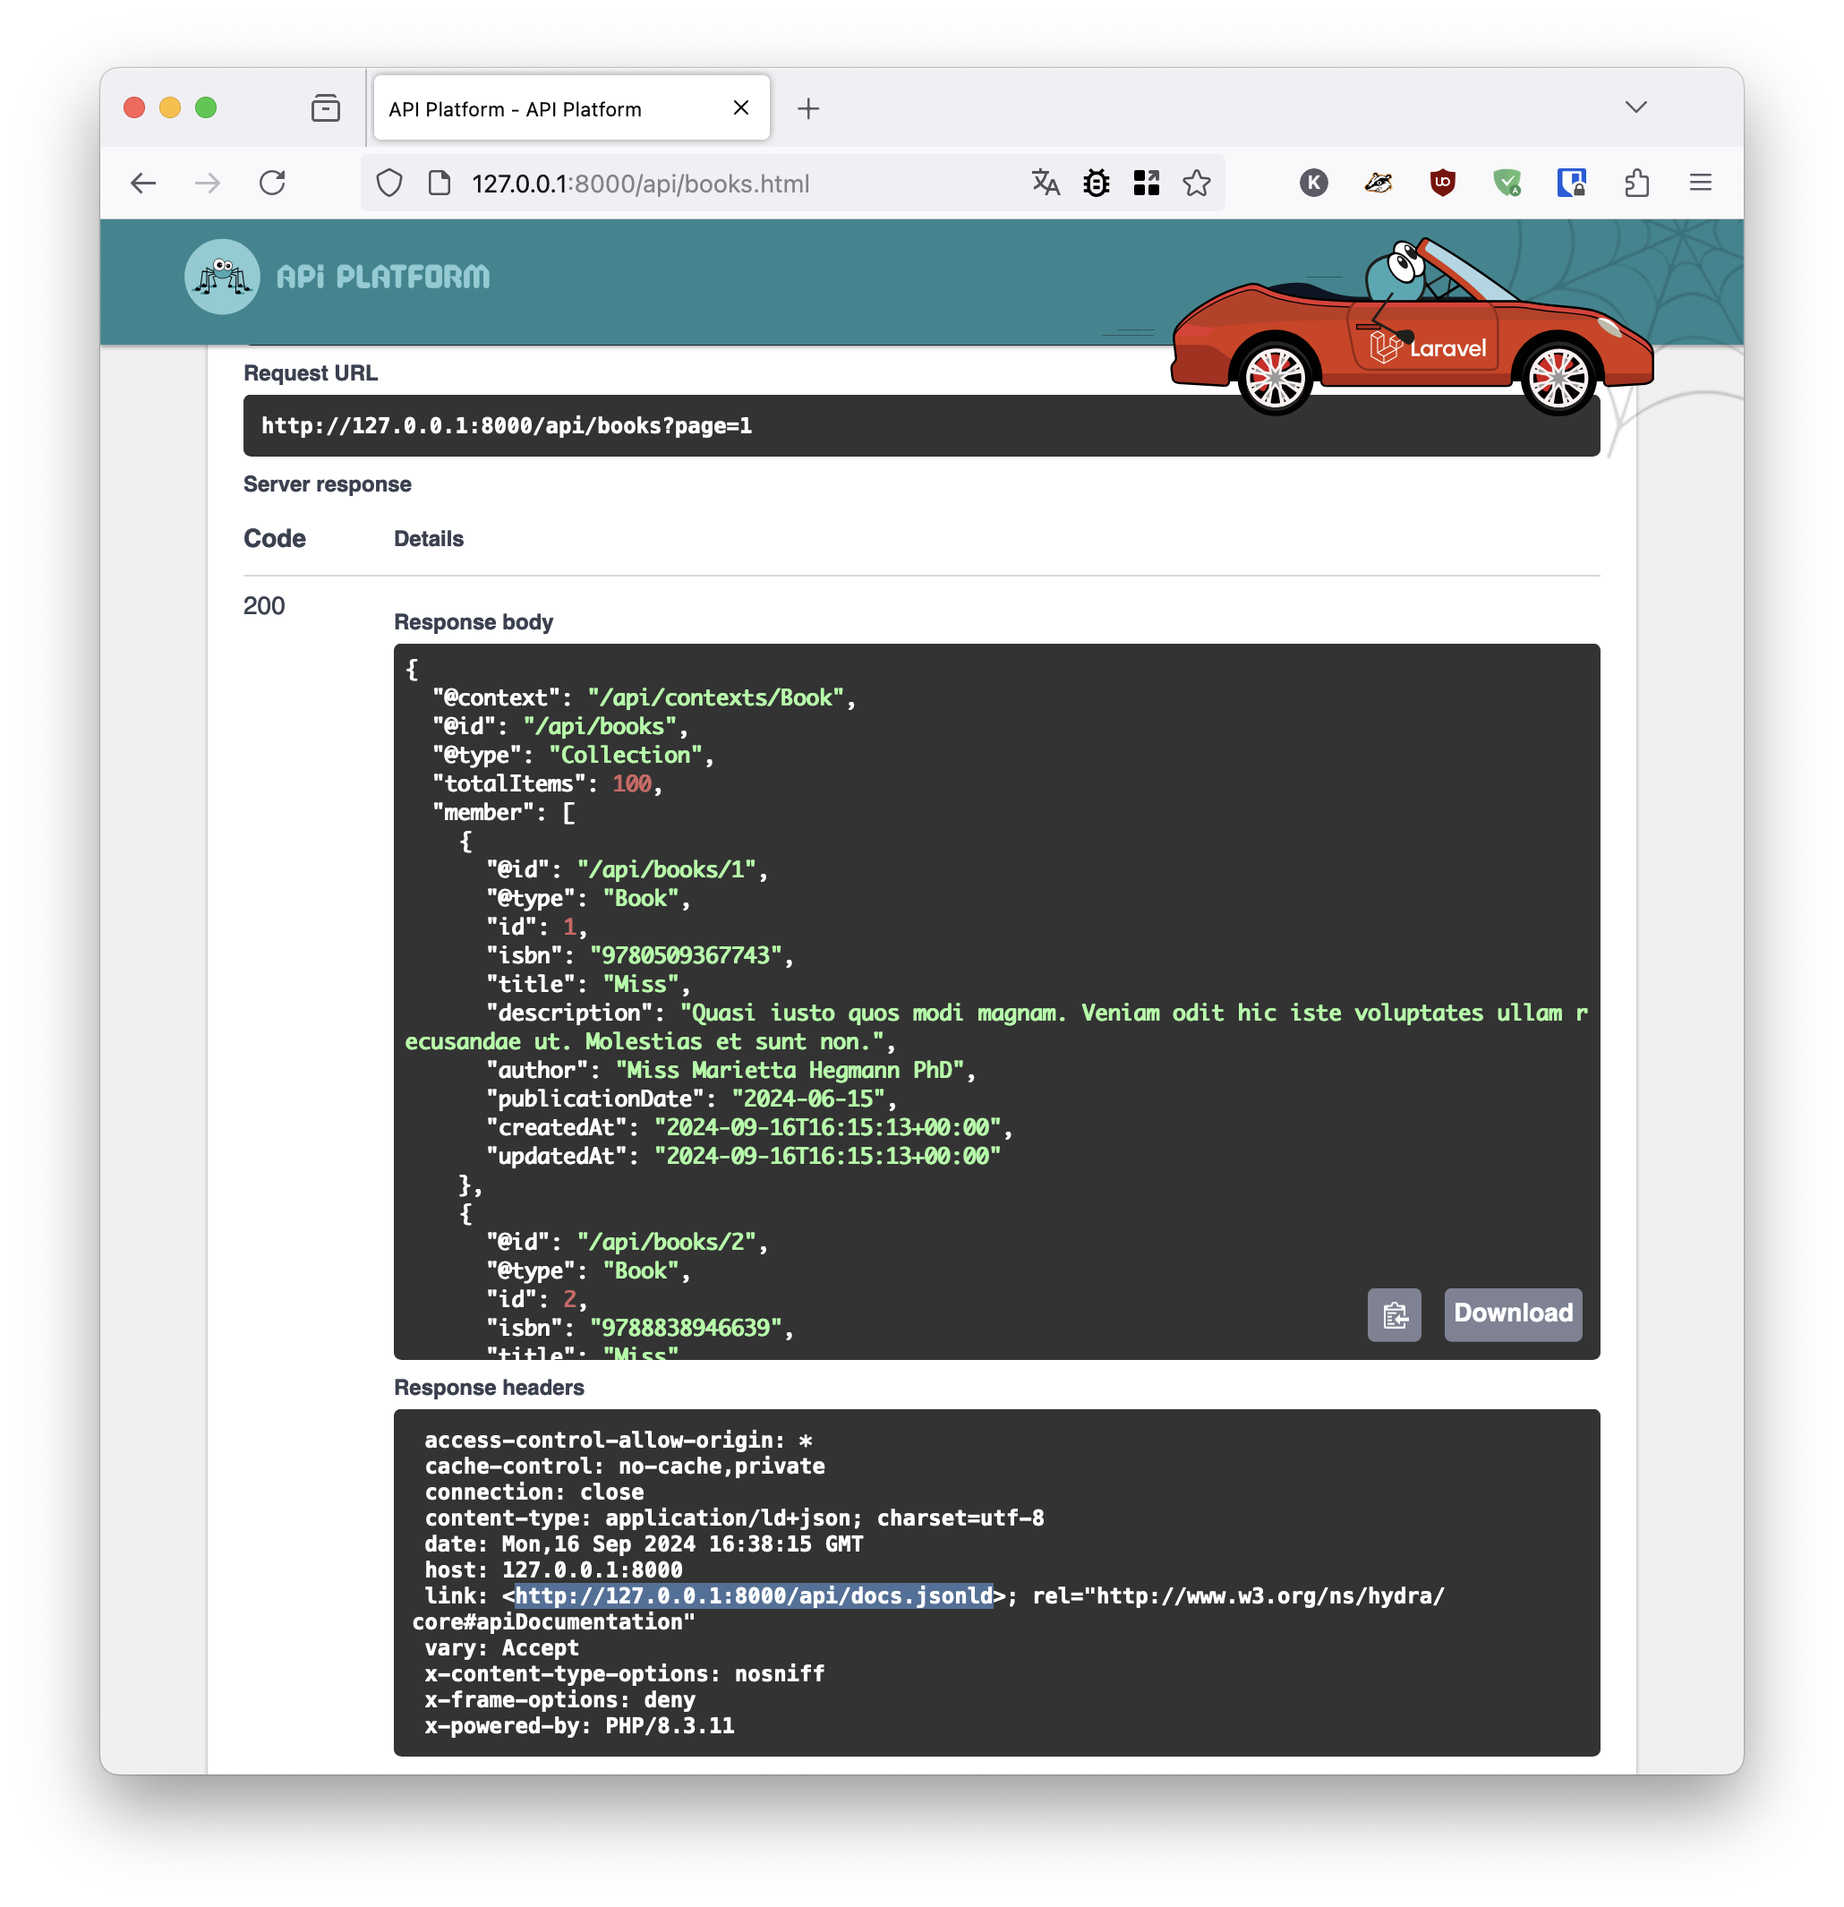
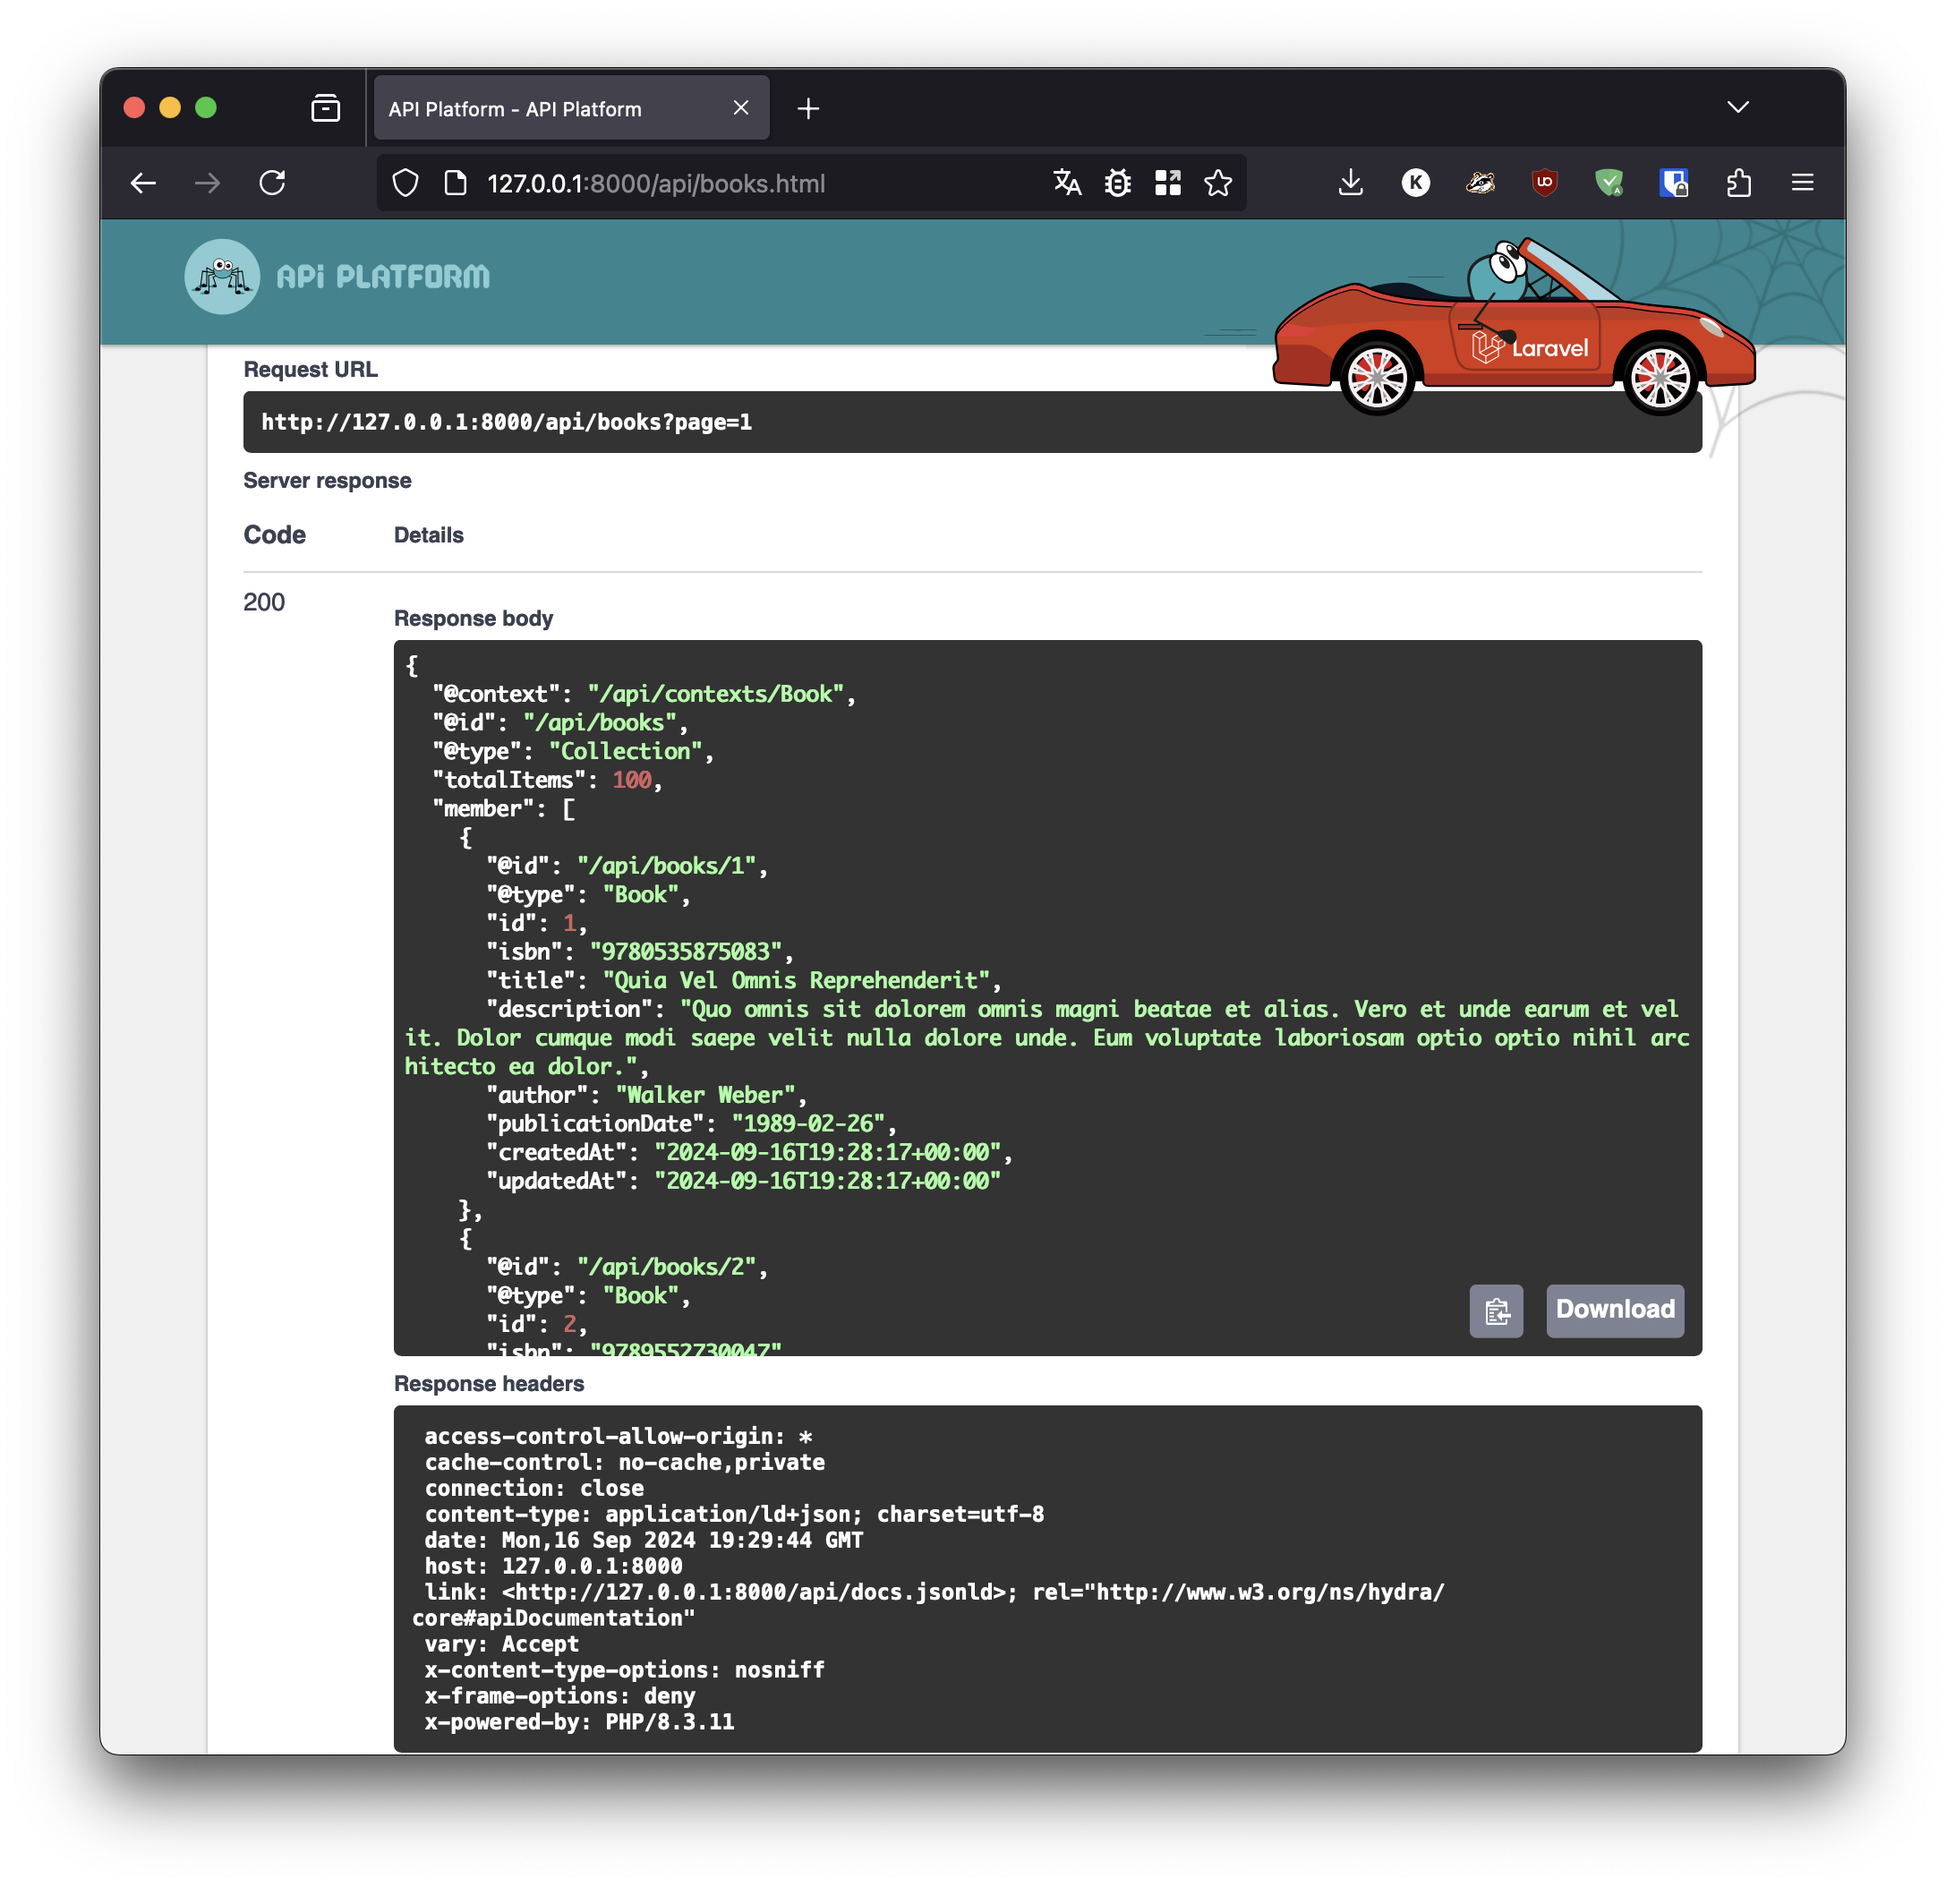
more fixes

Changed region(s): [[0.0311, 0.0308, 0.9631, 0.9559]]

diff --git a/laravel/index.md b/laravel/index.md
@@ -308,7 +308,7 @@ Then, edit `database/factories/BookFactory.php` to specify which generator to us
      {
          return [
 -            //
-+            'title' => fake()->title(),
++            'title' => mb_convert_case(fake()->words(4, true), MB_CASE_TITLE),
 +            'isbn' => fake()->isbn13(),
 +            'description' => fake()->text(),
 +            'author' => fake()->name(),
@@ -419,7 +419,7 @@ For instance, here how to make your API read-only by enabling only the `GET` [op
 +       new GetCollection(),
 +       new Get(),
 +    ],
-)]
+ )]
  class Book extends Model
  {
  }
